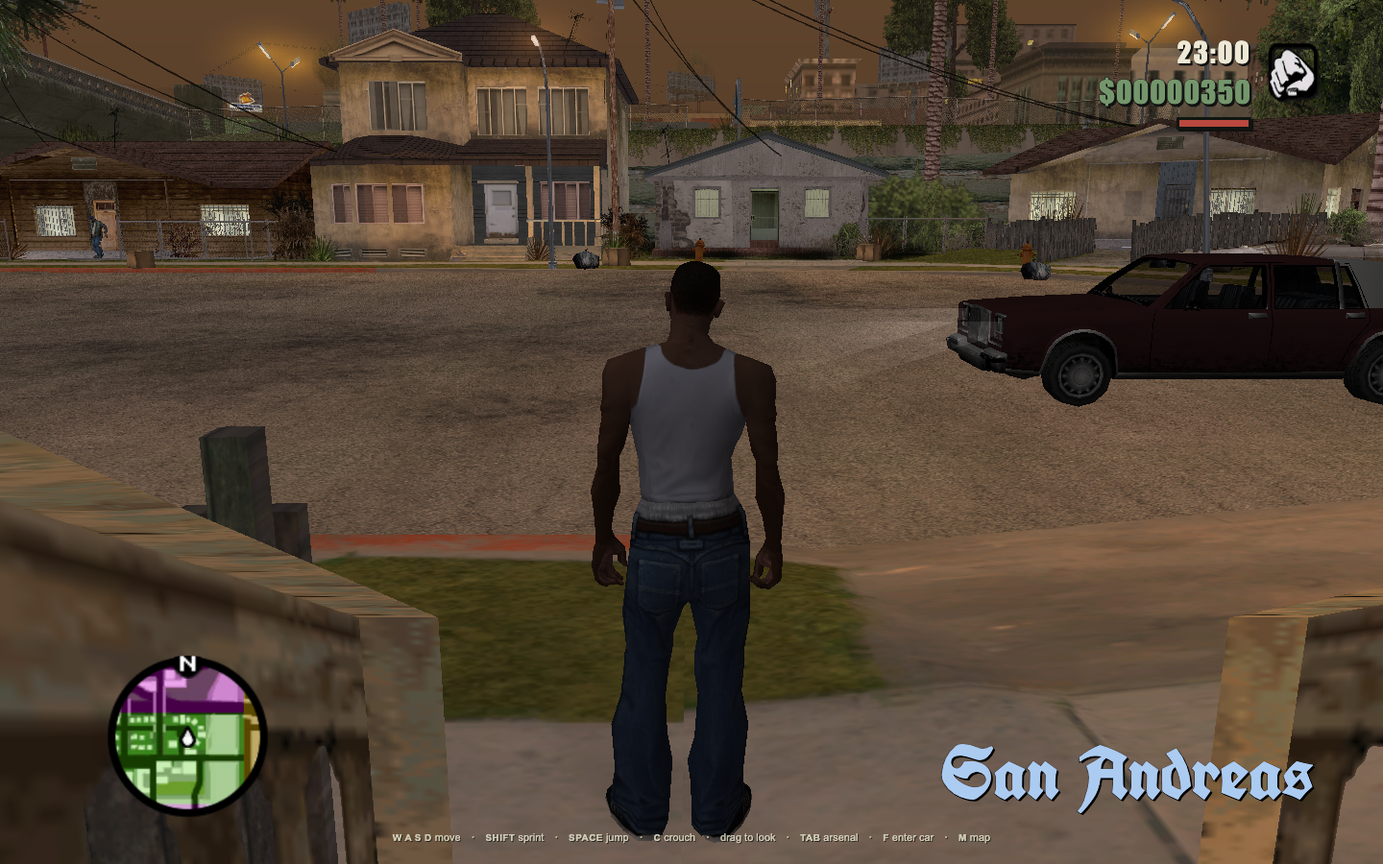
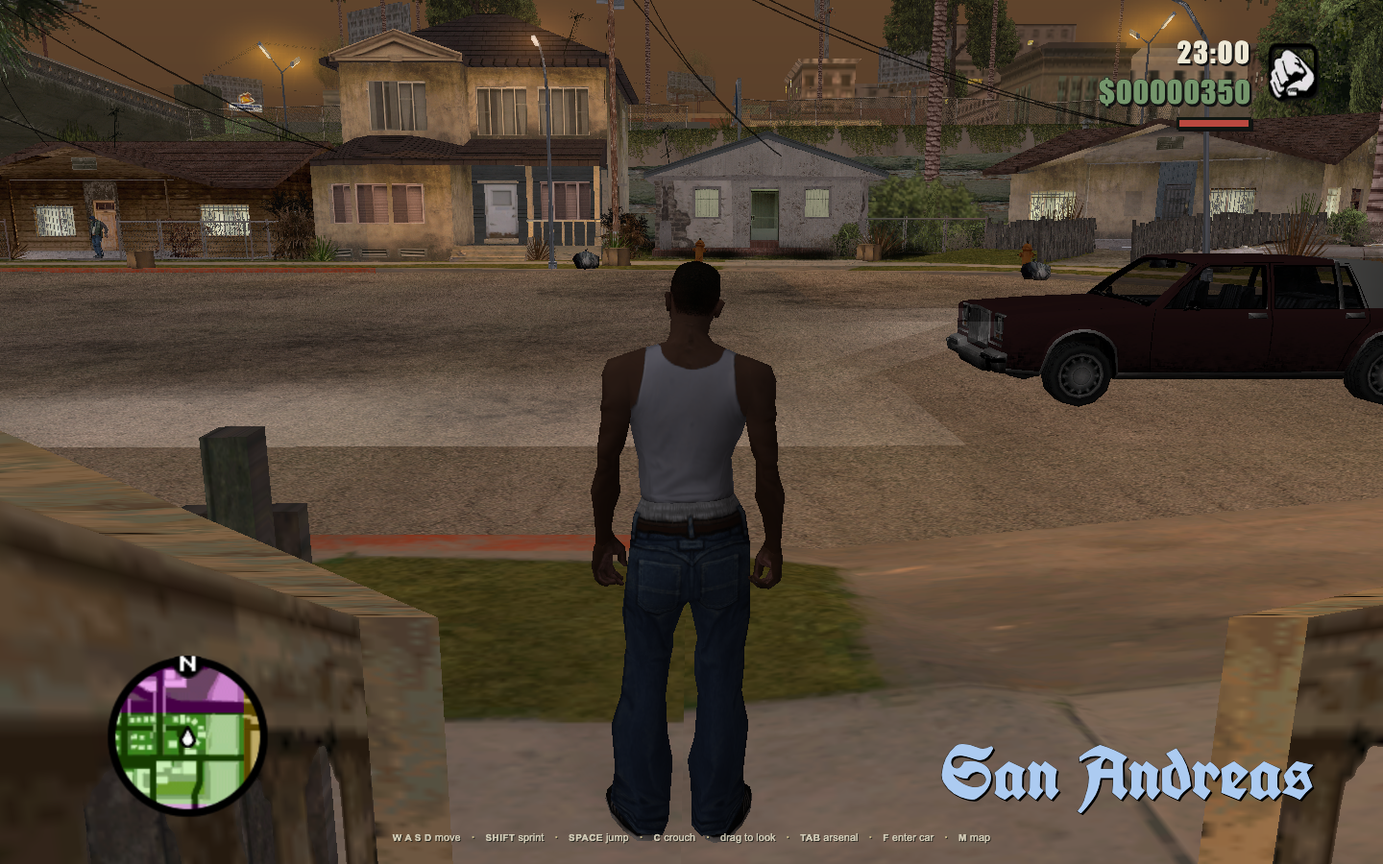
Store headlight road pools under lit cars like CVehicle::DoHeadLightReflection
A twin pool textured headlight (lightSize 4 × the dummy's x, centred
lightSize × 2 + 1 + dummy.y ahead, 2 up, front lightSize × 2, side
lightSize) when both lamps work, a headlight1 pool per working lamp
otherwise, colour 45 at intensity 128 over 6 units, dropped 27 units
from the camera and faded from 18 (CShadows::StoreCarLightShadow). The
light-pool projector gains rotated footprints and per-pool cut-offs; the
particle dictionary's headlight rasters load with the sky textures.

Changed region(s): [[0.0, 0.4356, 0.4375, 0.5289], [0.5312, 0.4978, 0.625, 0.5289]]

diff --git a/src/main.ts b/src/main.ts
@@ -19,6 +19,7 @@ import {nativeWeatherRegion,WEATHER_REGION} from './world/weatherRegion';
 import {CRIME,LAW_ENFORCEMENT_MODELS} from './simulation/nativeWanted';
 import {GangWars,GANG_COLOURS,attackBlipSprite} from './simulation/GangWars';
 import {HeadlightBeams} from './render/HeadlightBeams';
+import {carLightPools} from './render/carLightPools';
 import {pedTypeAtLeastDealer,playerKilledADealer} from './simulation/nativePopCycleEvents';
 import {CHEATS,type CheatName} from './simulation/nativeCheats';
 import {VehicleAnimationLibrary} from './assets/vehicleAnimations';
@@ -328,13 +329,23 @@ async function boot() {
         if(render.lighting.area===0)planeTrails.update(gameTimeMs,Math.floor(sim.timeMinutes/60)%24,coronas,cam);
         // CEntity::PreRender: ProcessLightsForEntity, then DisplayActualLight for traffic light models.
         const pools=importedScene.litPlacements().flatMap(entity=>[...processLightsForEntity(entity,frame,coronas),...(entity.name&&TRAFFIC_LIGHT_MODELS.has(entity.name)?displayActualLight(entity,trafficFrame,coronas,brightLights):[])]);
-        if(poolScene!==importedScene){lightPools.clear();poolScene=importedScene;}
+        if(poolScene!==importedScene){lightPools.clear();carLightPoolsTwin.clear();carLightPoolsSingle.clear();poolScene=importedScene;}
         // CEntity::CreateEffects / DestroyEffects: the installed scene's particle effects run while it is loaded.
         if((fxScene!==importedScene||fxVersion!==importedScene.effectsVersion)&&worldFx.ready){
           for(const system of sceneFx)system.kill();sceneFx.length=0;fxScene=importedScene;fxVersion=importedScene.effectsVersion;
           for(const p of importedScene.particlePlacements()){const system=worldFx.entityFx(p.name,p.position,Float64Array.from(p.matrix));if(system)sceneFx.push(system);}
         }
         const scene=importedScene;lightPools.frame(pools,cam,footprint=>scene.shadowReceivers(footprint),render.lighting.sunTexture.poolTexture);
+        // CVehicle::DoHeadLightReflection: the road pools under lit headlights, on the lamps' night rule.
+        const twinPools:import('./world/nativeEntityLights').LightPool[]=[],singlePools:import('./world/nativeEntityLights').LightPool[]=[];
+        if(nativeDayNightBalance(sim.timeMinutes)>.5)for(const car of fleet?.cars??[]){
+          if(car.wrecked||!car.car.body.isEnabled())continue;const d=car.car.nativeFramePosition('headlights');if(!d)continue;
+          const p=car.car.body.translation(),r=car.car.body.rotation(),q=new Quaternion(r.x,r.y,r.z,r.w),f=new Vector3(0,0,-1).applyQuaternion(q),rt=new Vector3(1,0,0).applyQuaternion(q);
+          const got=carLightPools({id:car.car.body.handle,position:{x:p.x,y:-p.z,z:p.y},forward:{x:f.x,y:-f.z},right:{x:rt.x,y:-rt.z},dummy:{x:d.x,y:d.y,z:d.z},lamps:[!car.damageState.lights[0],!car.damageState.lights[1]]},{x:cam[0],y:cam[1]});
+          twinPools.push(...got.twin);singlePools.push(...got.single);
+        }
+        carLightPoolsTwin.frame(twinPools,cam,footprint=>scene.shadowReceivers(footprint),render.lighting.sunTexture.extraTexture('headlight'));
+        carLightPoolsSingle.frame(singlePools,cam,footprint=>scene.shadowReceivers(footprint),render.lighting.sunTexture.extraTexture('headlight1'));
       }
       worldCoronas.frame(camera,coronas,render.lighting.sunTexture.texture,weatherStarted?weather.foggyness:0);
       // RenderScene's CCoronas::RenderReflections on wet roads.
@@ -639,7 +650,7 @@ async function boot() {
   weapons.onBulletLine=(a,b)=>{lastBulletLine=[{...a},{...b}];birds.handleGunShot([a.x,-a.z,a.y],[b.x,-b.z,b.y]);};
   /** CBulletTraces, and the whizz of a bullet passing near the camera (PlayFrontEndSoundForTrace). */
   const bulletTraces=new NativeBulletTraces(()=>{const m=render.camera.matrixWorld.elements;return {position:{x:m[12],y:m[13],z:m[14]},right:{x:m[0],y:m[1],z:m[2]},up:{x:m[4],y:m[5],z:m[6]},forward:{x:-m[8],y:-m[9],z:-m[10]}};},
-    (event,volume)=>sound.frontend(event,volume)),bulletTracesMesh=new NativeImmediateTriangles(render.scene,16*12,'Native bullet traces',6.3,false),headlightBeams=new HeadlightBeams(render.scene);
+    (event,volume)=>sound.frontend(event,volume)),bulletTracesMesh=new NativeImmediateTriangles(render.scene,16*12,'Native bullet traces',6.3,false),headlightBeams=new HeadlightBeams(render.scene),carLightPoolsTwin=new NativeLightPools(render.scene),carLightPoolsSingle=new NativeLightPools(render.scene);
   /** CMotionBlurStreaks behind thrown grenades and molotovs; fogged with the sky's bottom colour. */
   const streaks=new NativeMotionBlurStreaks(),streaksMesh=new NativeImmediateTriangles(render.scene,4*12,'Native motion blur streaks',6.25,true);
   /** CSetPieces from the INITIAL mission; each request is generated here and reported back. */
@@ -1067,7 +1078,7 @@ async function boot() {
     },
     gangWars:()=>gangWars,
     police:()=>police,
-    state: () => ({ gangWars:gangWars?.snapshot()??null, headlightBeams:headlightBeams.drawn, jetPack:sim.jetPack?{worn:jetPackView.worn,error:jetPackView.error??null,flames:jetFlames.filter(f=>f&&!f.destroyed).length,thrustFwd:sim.jetPack.thrustFwd,strafe:+sim.jetPack.thrustStrafe.toFixed(3),angle:+sim.jetPack.thrustAngle.toFixed(3),fx:+sim.jetPack.fxKeyTime.toFixed(2),legs:[+sim.jetPack.legSwingFwd.toFixed(3),+sim.jetPack.legSwingSide.toFixed(3)]}:null, coronaFlares:{drawn:coronaFlaresMesh.drawn,sun:flareSun}, coronaReflections:{drawn:coronaReflections.drawn,candidates:coronaReflectionCandidates}, setPieces:setPieces?{count:setPieces.pieces.length,generated:setPieces.lastGeneration.filter(t=>t>0).length,attempts:setPieceAttempts,error:setPieceError}:null, tags:tagManager?{total:tagManager.numTags,tagged:tagManager.numTagged,sprayed:tagManager.saved().length}:null, planeTrails:trailsMesh.drawn, bulletTraces:bulletTracesMesh.drawn/12, streaks:streaksMesh.drawn/6, money:sim.money, cheats:{times:cheats.timesCheated,active:[...cheats.active],timeScale:cheatTimeScale}, brightLights:{vertices:brightMesh.drawn,center:brightMesh.firstCenter}, sunReflection:sunReflectionMesh.visible, markers3d:{drawn:markersMesh.drawn,active:markers3d.numActiveMarkers,error:markersMesh.error??null,center:markersMesh.firstCenter,first:(m=>m?{position:[...m.position],size:m.size}:null)(markers3d.markers.find(m=>m.hasAtomic))}, coronas:{sceneFx:sceneFx.length,pools:lightPools.drawn,firstPool:lightPools.first,count:coronas.count,drawn:worldCoronas.drawn,lit:importedScene?.litPlacements().length??0,first:worldCoronas.firstCenter}, lastBulletLine:lastBulletLine??null, birds:{count:birds.count,drawn:birdsMesh.drawnBirds,shot:birds.shot??null,positions:birds.birds.filter(b=>b.created).map(b=>[...b.position])}, duck:{x:duck.x,y:duck.y,rolling:duck.rolling}, entryExits:entryExits?{state:entryExits.state,active:entryExits.active?.enex.name??null,loading:!!interiorTransfer,stack:entryExits.stack.map(e=>e.name),count:entryExits.pool.length}:null, skidmarks:skids.snapshot(), weather:{...weather.snapshot(),effects:weatherEffects.snapshot(),movingFog:movingFog.snapshot()},fx:worldFx.snapshot(),police:police?.snapshot()??null,driveby:driveby?.snapshot()??null,pickups:pickups.snapshot(),drops:drops.snapshot(),carEntry:carEntry.snapshot(),progression:progression.snapshot(),stuntJumps:stuntJumps?.snapshot()??null,occupants:occupants.snapshot(),wanted:law.snapshot(),weapons:{...weapons.snapshot(),error:weaponView.error??null,arsenal:arsenal.open}, traffic:traffic?.snapshot()??null, pedestrians:pedestrians?.snapshot()??null, aircraft:fleet?.occupiedPlane?.snapshot()??null, fleet:fleet?.snapshot()??null, nativeCar:worldCar&&!worldCar.disposed?{occupied:worldCar.occupied,health:worldCar.health,wrecked:worldCar.wrecked,upsideDown:worldCar.upsideDownCounter,doors:worldCar.doors.map((door,i)=>({angle:door.angle,ratio:door.ratio,status:worldCar!.damageState.doors[i]})),debris:worldCar.debris.count,propsSmashed:worldCar.propsSmashed,propsUprooted:worldCar.propsUprooted,tyres:[...worldCar.damageState.wheels],wheels:worldCar.car.wheelSnapshot(),position:{...worldCar.car.body.translation()},velocity:{...worldCar.car.body.linvel()}}:null, breakObjects:{active:breakManager.activeCount,drawn:breakPieces.count,groups:breakManager.objects.filter(o=>o.active).map(o=>o.groups.map(g=>({z:+g.matrix[11].toFixed(2),frames:g.framesToLive,stopped:g.stoppedMoving})))},proceduralCollisionSources:[...(importedScene?.sources.values()??[])].filter(source=>source.procedural).length, nativeVegetation:importedScene?.vegetation()??null, following:follower?{...follower.snapshot(),supportOverrides,lastSupportMiss:lastSupportMiss??null,lastSwap:lastSwap??null,holds:{...terrainHolds},latencyEma:Math.round(latencyEma),leadSeconds:follower.leadSeconds}:null,objectKinds: [...(importedScene?.sources.values()??[])].map(source=>source.entityKind), imported: sim.imported, importedInstances: importedScene?.instanceCount ?? 0, importedReusedColliders:importedScene?.reusedColliderCount??0,importedReusedPlacements:importedScene?.reusedPlacementCount??0, physics:{colliders:sim.world.colliders.len(),bodies:sim.world.bodies.len()},pooledModels:importedScene?.pooledModelCount??0, retiredModels:importedScene?.retiredModelCount??0, retiredModelMB:+(importedScene?.retiredModelMB??0).toFixed(1), frameProfile:{...frameProfile,renderSections:{...render.profile}}, uvAnimators:importedScene?.uvAnimatorCount??0, modelBuild:{...modelBuildStats}, subsystemFaults:[...subsystemFaults].map(([message,count])=>({message,count})), visibleImportedInstances: importedScene?.visibleInstanceCount ?? 0, visibleImportedModels: importedScene?.visibleModels() ?? [], paused, terrainHold:terrainPause, nativeShadow: render.nativeShadow.snapshot(), nativeContactLighting: render.contactLighting ?? null, nativeCharacter: render.nativeCharacter?.snapshot() ?? null, deathRemaining: sim.deathRemaining, knockdown: sim.knockdown, playerCarHits:{...playerCarHits,push:{...sim.collisionPush},stuck:sim.playerStuck}, gameLogicState: gameLogic.state, fadeAlpha: cameraFade.value, restartPoints: {hospitals:nativeRestart.hospitals.length,police:nativeRestart.police.length}, player: { ...sim.player, position: { ...sim.player.position } },moneyDrops:moneyDrops.snapshot(),climb:sim.climb?{clip:sim.climb.anim?.clip??null,time:sim.climb.anim?.time??0,blend:sim.climb.anim?.blend??0,heightForAnim:sim.climb.heightForAnim,heightForPos:sim.climb.heightForPos,hold:{...sim.climb.hold}}:null,climbReady:!!sim.climbDurations,
+    state: () => ({ gangWars:gangWars?.snapshot()??null, headlightBeams:headlightBeams.drawn,carLightPools:carLightPoolsTwin.drawn+carLightPoolsSingle.drawn, jetPack:sim.jetPack?{worn:jetPackView.worn,error:jetPackView.error??null,flames:jetFlames.filter(f=>f&&!f.destroyed).length,thrustFwd:sim.jetPack.thrustFwd,strafe:+sim.jetPack.thrustStrafe.toFixed(3),angle:+sim.jetPack.thrustAngle.toFixed(3),fx:+sim.jetPack.fxKeyTime.toFixed(2),legs:[+sim.jetPack.legSwingFwd.toFixed(3),+sim.jetPack.legSwingSide.toFixed(3)]}:null, coronaFlares:{drawn:coronaFlaresMesh.drawn,sun:flareSun}, coronaReflections:{drawn:coronaReflections.drawn,candidates:coronaReflectionCandidates}, setPieces:setPieces?{count:setPieces.pieces.length,generated:setPieces.lastGeneration.filter(t=>t>0).length,attempts:setPieceAttempts,error:setPieceError}:null, tags:tagManager?{total:tagManager.numTags,tagged:tagManager.numTagged,sprayed:tagManager.saved().length}:null, planeTrails:trailsMesh.drawn, bulletTraces:bulletTracesMesh.drawn/12, streaks:streaksMesh.drawn/6, money:sim.money, cheats:{times:cheats.timesCheated,active:[...cheats.active],timeScale:cheatTimeScale}, brightLights:{vertices:brightMesh.drawn,center:brightMesh.firstCenter}, sunReflection:sunReflectionMesh.visible, markers3d:{drawn:markersMesh.drawn,active:markers3d.numActiveMarkers,error:markersMesh.error??null,center:markersMesh.firstCenter,first:(m=>m?{position:[...m.position],size:m.size}:null)(markers3d.markers.find(m=>m.hasAtomic))}, coronas:{sceneFx:sceneFx.length,pools:lightPools.drawn,firstPool:lightPools.first,count:coronas.count,drawn:worldCoronas.drawn,lit:importedScene?.litPlacements().length??0,first:worldCoronas.firstCenter}, lastBulletLine:lastBulletLine??null, birds:{count:birds.count,drawn:birdsMesh.drawnBirds,shot:birds.shot??null,positions:birds.birds.filter(b=>b.created).map(b=>[...b.position])}, duck:{x:duck.x,y:duck.y,rolling:duck.rolling}, entryExits:entryExits?{state:entryExits.state,active:entryExits.active?.enex.name??null,loading:!!interiorTransfer,stack:entryExits.stack.map(e=>e.name),count:entryExits.pool.length}:null, skidmarks:skids.snapshot(), weather:{...weather.snapshot(),effects:weatherEffects.snapshot(),movingFog:movingFog.snapshot()},fx:worldFx.snapshot(),police:police?.snapshot()??null,driveby:driveby?.snapshot()??null,pickups:pickups.snapshot(),drops:drops.snapshot(),carEntry:carEntry.snapshot(),progression:progression.snapshot(),stuntJumps:stuntJumps?.snapshot()??null,occupants:occupants.snapshot(),wanted:law.snapshot(),weapons:{...weapons.snapshot(),error:weaponView.error??null,arsenal:arsenal.open}, traffic:traffic?.snapshot()??null, pedestrians:pedestrians?.snapshot()??null, aircraft:fleet?.occupiedPlane?.snapshot()??null, fleet:fleet?.snapshot()??null, nativeCar:worldCar&&!worldCar.disposed?{occupied:worldCar.occupied,health:worldCar.health,wrecked:worldCar.wrecked,upsideDown:worldCar.upsideDownCounter,doors:worldCar.doors.map((door,i)=>({angle:door.angle,ratio:door.ratio,status:worldCar!.damageState.doors[i]})),debris:worldCar.debris.count,propsSmashed:worldCar.propsSmashed,propsUprooted:worldCar.propsUprooted,tyres:[...worldCar.damageState.wheels],wheels:worldCar.car.wheelSnapshot(),position:{...worldCar.car.body.translation()},velocity:{...worldCar.car.body.linvel()}}:null, breakObjects:{active:breakManager.activeCount,drawn:breakPieces.count,groups:breakManager.objects.filter(o=>o.active).map(o=>o.groups.map(g=>({z:+g.matrix[11].toFixed(2),frames:g.framesToLive,stopped:g.stoppedMoving})))},proceduralCollisionSources:[...(importedScene?.sources.values()??[])].filter(source=>source.procedural).length, nativeVegetation:importedScene?.vegetation()??null, following:follower?{...follower.snapshot(),supportOverrides,lastSupportMiss:lastSupportMiss??null,lastSwap:lastSwap??null,holds:{...terrainHolds},latencyEma:Math.round(latencyEma),leadSeconds:follower.leadSeconds}:null,objectKinds: [...(importedScene?.sources.values()??[])].map(source=>source.entityKind), imported: sim.imported, importedInstances: importedScene?.instanceCount ?? 0, importedReusedColliders:importedScene?.reusedColliderCount??0,importedReusedPlacements:importedScene?.reusedPlacementCount??0, physics:{colliders:sim.world.colliders.len(),bodies:sim.world.bodies.len()},pooledModels:importedScene?.pooledModelCount??0, retiredModels:importedScene?.retiredModelCount??0, retiredModelMB:+(importedScene?.retiredModelMB??0).toFixed(1), frameProfile:{...frameProfile,renderSections:{...render.profile}}, uvAnimators:importedScene?.uvAnimatorCount??0, modelBuild:{...modelBuildStats}, subsystemFaults:[...subsystemFaults].map(([message,count])=>({message,count})), visibleImportedInstances: importedScene?.visibleInstanceCount ?? 0, visibleImportedModels: importedScene?.visibleModels() ?? [], paused, terrainHold:terrainPause, nativeShadow: render.nativeShadow.snapshot(), nativeContactLighting: render.contactLighting ?? null, nativeCharacter: render.nativeCharacter?.snapshot() ?? null, deathRemaining: sim.deathRemaining, knockdown: sim.knockdown, playerCarHits:{...playerCarHits,push:{...sim.collisionPush},stuck:sim.playerStuck}, gameLogicState: gameLogic.state, fadeAlpha: cameraFade.value, restartPoints: {hospitals:nativeRestart.hospitals.length,police:nativeRestart.police.length}, player: { ...sim.player, position: { ...sim.player.position } },moneyDrops:moneyDrops.snapshot(),climb:sim.climb?{clip:sim.climb.anim?.clip??null,time:sim.climb.anim?.time??0,blend:sim.climb.anim?.blend??0,heightForAnim:sim.climb.heightForAnim,heightForPos:sim.climb.heightForPos,hold:{...sim.climb.hold}}:null,climbReady:!!sim.climbDurations,
       camera: { mode: render.distanceMode, distance: render.followDistance, far: render.camera.far, fog: render.scene.fog?.toJSON(), yaw: render.yaw, viewYaw: render.viewYaw, pitch: render.viewPitch, glance: render.glance, position: render.camera.position.toArray(), firstPerson: render.firstPerson??null, fov: render.fov, verticalFov: render.camera.fov, near: render.camera.near },
       movementSurfaceDefinitions:surfaceSprint?.size??0,surfaceSprintBlocked,
       audio: {...sound.state(),surfaceDefinitions:surfaceAudio?.byId.size??0}, timeMinutes: sim.timeMinutes, lighting: { area: render.lighting.area, sunMultiplier: render.lighting.sunLightMultiplier, night: render.lighting.night, imported: localLighting.name, weather: localLighting.weather, regionalModifiers:localLighting.modifierCount, native: localLighting.sample(sim.timeMinutes,render.camera.position) },

diff --git a/src/render/carLightPools.ts b/src/render/carLightPools.ts
@@ -1,0 +1,36 @@
+import type {LightPool} from '../world/nativeEntityLights';
+/* CVehicle::DoHeadLightReflection (gta-reversed ead3051): the additive road pool under a car's lit headlights.
+ * DoHeadLightReflectionTwin, when both lamps work, stores one pool textured `headlight`: lightSize = 4 × the
+ * headlights dummy's x, centred lightSize × 2 + 1 + dummy.y ahead of the car, 2 units up, front half-vector
+ * forward × lightSize × 2 and side half-vector perp-right of forward × lightSize. DoHeadLightReflectionSingle stores
+ * `headlight1` per working lamp, offset ± dummy.x along the right (bikes and the Quad use lightSize 1.25). Colour
+ * 45, 45, 45 at intensity 128 over 6 units of height. CShadows::StoreCarLightShadow drops pools 27 units from the
+ * camera and fades the colour from 18 (27 × 2 / 3) out. Native coordinates (x, y, z up). */
+export const CAR_LIGHT_POOL_MAX_DISTANCE=27,CAR_LIGHT_POOL_COLOUR=45;
+export interface CarLightSource {
+ id:number;position:{x:number;y:number;z:number};forward:{x:number;y:number};right:{x:number;y:number};
+ /** The headlights dummy in native car space. */
+ dummy:{x:number;y:number;z:number};
+ lamps:readonly [boolean,boolean];bike?:boolean;
+}
+export function carLightPools(car:CarLightSource,camera:{x:number;y:number}):{twin:LightPool[];single:LightPool[]}{
+ const twin:LightPool[]=[],single:LightPool[]=[];
+ const [left,right]=car.lamps;if(!left&&!right)return {twin,single};
+ const fl=Math.hypot(car.forward.x,car.forward.y)||1,fwd={x:car.forward.x/fl,y:car.forward.y/fl};
+ const rl=Math.hypot(car.right.x,car.right.y)||1,rgt={x:car.right.x/rl,y:car.right.y/rl};
+ const fade=(p:{x:number;y:number})=>{const d=Math.hypot(p.x-camera.x,p.y-camera.y);if(d>=CAR_LIGHT_POOL_MAX_DISTANCE)return 0;const start=CAR_LIGHT_POOL_MAX_DISTANCE*2/3;return d>=CAR_LIGHT_POOL_MAX_DISTANCE*.75?1-(d-start)/(CAR_LIGHT_POOL_MAX_DISTANCE-start):1;};
+ const store=(list:LightPool[],id:number,centre:{x:number;y:number},lightSize:number)=>{
+  const t=fade(centre);if(t<=0)return;
+  const c=Math.trunc(CAR_LIGHT_POOL_COLOUR*t);
+  const front:[number,number]=[fwd.x*lightSize*2,fwd.y*lightSize*2],side:[number,number]=[fwd.y*lightSize,-fwd.x*lightSize];
+  list.push({id,position:[centre.x,centre.y,car.position.z+2],size:lightSize*2,color:[c,c,c],intensity:128,maxHeight:6,front,side,maxDistance:CAR_LIGHT_POOL_MAX_DISTANCE});
+ };
+ if(left&&right){
+  const lightSize=Math.abs(car.dummy.x)*4,offset=lightSize*2+1+car.dummy.y;
+  store(twin,car.id*4+2,{x:car.position.x+fwd.x*offset,y:car.position.y+fwd.y*offset},lightSize);
+ }else{
+  const x=right?Math.abs(car.dummy.x):-Math.abs(car.dummy.x),lightSize=car.bike?1.25:Math.abs(car.dummy.x)*4,offset=lightSize*2+1+car.dummy.y;
+  store(single,car.id*4+(right?1:0),{x:car.position.x+rgt.x*x+fwd.x*offset,y:car.position.y+rgt.y*x+fwd.y*offset},lightSize);
+ }
+ return {twin,single};
+}

diff --git a/tests/car-light-pools.test.ts b/tests/car-light-pools.test.ts
@@ -1,0 +1,20 @@
+import {expect,test} from 'vitest';
+import {carLightPools,CAR_LIGHT_POOL_MAX_DISTANCE} from '../src/render/carLightPools';
+const car=(lamps:[boolean,boolean])=>({id:7,position:{x:100,y:200,z:10},forward:{x:0,y:1},right:{x:1,y:0},dummy:{x:0.6,y:2,z:0.5},lamps});
+test('both lamps lit store one twin pool ahead of the car; one lamp a single pool offset to its side; none when the lamps are out',()=>{
+ const twin=carLightPools(car([true,true]),{x:100,y:200});
+ expect(twin.single).toHaveLength(0);expect(twin.twin).toHaveLength(1);
+ const t=twin.twin[0],lightSize=2.4,offset=lightSize*2+1+2;
+ expect(t.position).toEqual([100,200+offset,12]);expect(t.front).toEqual([0,lightSize*2]);expect(t.side).toEqual([lightSize,-0]);
+ expect(t.color).toEqual([45,45,45]);expect(t.intensity).toBe(128);expect(t.maxHeight).toBe(6);expect(t.maxDistance).toBe(27);
+ const right=carLightPools(car([false,true]),{x:100,y:200});
+ expect(right.twin).toHaveLength(0);expect(right.single).toHaveLength(1);expect(right.single[0].position[0]).toBeCloseTo(100.6,5);
+ const left=carLightPools(car([true,false]),{x:100,y:200});expect(left.single[0].position[0]).toBeCloseTo(99.4,5);
+ expect(carLightPools(car([false,false]),{x:100,y:200}).twin).toHaveLength(0);
+});
+test('the pool fades from 18 units and drops at 27 from the camera; a bike uses lightSize 1.25',()=>{
+ const c=car([true,true]);
+ const near=carLightPools(c,{x:100,y:200+7.8}),mid=carLightPools(c,{x:100,y:200+7.8-22.5}),far=carLightPools(c,{x:100,y:200+7.8-CAR_LIGHT_POOL_MAX_DISTANCE});
+ expect(near.twin[0].color[0]).toBe(45);expect(mid.twin[0].color[0]).toBe(Math.trunc(45*(1-(22.5-18)/9)));expect(far.twin).toHaveLength(0);
+ const bike=carLightPools({...car([false,true]),bike:true},{x:100,y:200});expect(bike.single[0].front).toEqual([0,2.5]);
+});

diff --git a/src/render/NativeLightPools.ts b/src/render/NativeLightPools.ts
@@ -43,14 +43,15 @@ export class NativeLightPools {
  frame(pools:readonly LightPool[],camera:readonly [number,number,number],receivers:Receivers|undefined,raster:THREE.Texture|undefined){
   const shown:{geometry:{positions:Float32Array;uvs:Float32Array};color:[number,number,number];position:[number,number,number]}[]=[];
   if(raster&&receivers)for(const pool of pools){
-   if(!pool.intensity||Math.hypot(pool.position[0]-camera[0],pool.position[1]-camera[1])>=40)continue;
+   if(!pool.intensity||Math.hypot(pool.position[0]-camera[0],pool.position[1]-camera[1])>=(pool.maxDistance??40))continue;
    const key=`${pool.id}:${pool.position.map(v=>v.toFixed(2)).join(',')}`;
    let geometry=this.cache.get(key);
    if(!geometry){
     const merged={positions:[] as number[],uvs:[] as number[]};
     try{
      // Native (x, y, z) is the renderer's (x, z, -y); the footprint reaches `maxHeight` below the light.
-     for(const {geometry:g} of receivers({center:{x:pool.position[0],y:pool.position[2],z:-pool.position[1]},side:{x:pool.size,z:0},front:{x:0,z:pool.size},depth:pool.maxHeight}).chunks){
+     const side=pool.side?{x:pool.side[0],z:-pool.side[1]}:{x:pool.size,z:0},front=pool.front?{x:pool.front[0],z:-pool.front[1]}:{x:0,z:pool.size};
+     for(const {geometry:g} of receivers({center:{x:pool.position[0],y:pool.position[2],z:-pool.position[1]},side,front,depth:pool.maxHeight}).chunks){
       for(let i=0;i<g.positions.length;i+=3)merged.positions.push(g.positions[i],g.positions[i+1]+.06,g.positions[i+2]);
       merged.uvs.push(...g.uvs);
      }

diff --git a/src/assets/sunTexture.ts b/src/assets/sunTexture.ts
@@ -9,9 +9,10 @@ export function decodeSunTexture(dictionary:Uint8Array,cache?:TextureDecodeCache
   return textures[0];
 }
 
-/** Other CCoronas rasters from the particle dictionary: the sun's sea reflection (`coronaheadlightline`) and the
- * wet-road reflections (`coronareflect`). */
-export const EXTRA_SKY_TEXTURES=['coronaheadlightline','coronareflect'] as const;
+/** Other CCoronas rasters from the particle dictionary: the sun's sea reflection (`coronaheadlightline`), the
+ * wet-road reflections (`coronareflect`) and CShadows' headlight road pools (`headlight` for a twin beam, `headlight1`
+ * for a single lamp). */
+export const EXTRA_SKY_TEXTURES=['coronaheadlightline','coronareflect','headlight','headlight1'] as const;
 /** Optional low clouds, water, CClouds::Init's moving fog mask (`cloudmasked`), the light-pool shadow (`shad_exp`) and
  * the extra corona rasters share the particle dictionary; sun-only dictionaries remain valid. */
 export function decodeSkyTextures(dictionary:Uint8Array,cache?:TextureDecodeCache) {

diff --git a/src/world/nativeEntityLights.ts b/src/world/nativeEntityLights.ts
@@ -31,7 +31,9 @@ export interface LitEntity {
  effects:readonly Model2dEffect[];
 }
 /** A light pool CShadows::StoreStaticShadow keeps under a lit effect (SHADOW_ADDITIVE). */
-export interface LightPool {id:number;position:[number,number,number];size:number;color:[number,number,number];intensity:number;maxHeight:number}
+export interface LightPool {id:number;position:[number,number,number];size:number;color:[number,number,number];intensity:number;maxHeight:number;
+ /** A rotated footprint (native 2D front and side half-vectors) instead of the `size` square, and its own camera cut-off. */
+ front?:[number,number];side?:[number,number];maxDistance?:number}
 
 const transform=(m:readonly number[],p:readonly number[]):[number,number,number]=>[m[0]*p[0]+m[4]*p[1]+m[8]*p[2]+m[12],m[1]*p[0]+m[5]*p[1]+m[9]*p[2]+m[13],m[2]*p[0]+m[6]*p[1]+m[10]*p[2]+m[14]];
 

diff --git a/tests/browser/headlight-beams.spec.ts b/tests/browser/headlight-beams.spec.ts
@@ -14,6 +14,8 @@ test('lit headlights draw their beam fans at night and none by day',async({page}
  await expect.poll(async()=>(await state()).headlightBeams,{timeout:10000}).toBeGreaterThan(0);
  // Two lamps, four triangles each: 24 vertices for the Greenwood alone (traffic may add more).
  expect((await state()).headlightBeams%24).toBe(0);
+ // CVehicle::DoHeadLightReflection: the twin road pool under the Greenwood's lamps.
+ await expect.poll(async()=>(await state()).carLightPools,{timeout:10000}).toBeGreaterThan(0);
  await page.screenshot({path:'scratch/beams/night-side.png'});
  expect(errors).toEqual([]);
 });

diff --git a/docs/GAPS_CHECKLIST.md b/docs/GAPS_CHECKLIST.md
@@ -13,7 +13,7 @@ This records implemented browser behavior and the work still needed. Native geom
 | Progression | Local cash/loadout/ammo/practice save; walking, driving and pursuit escape activities with one-time rewards; dead armed peds drop their gun for its leftover rounds (one-shot pickups, eight live max); the 522 exterior new-game SCM pickups (MAIN init, INITIAL, INITIL2) streamed within 100 units with CPickup::Update collection, ON_STREET/ON_STREET_SLOW regeneration, weapon ammo (AmmoForWeapon_OnStreet), body armour, bribes, horseshoes/oysters/snapshots with native rewards, saved collection state; the 70 unique stunt jumps from the script with slow motion, the fixed camera and rewards (see docs/research/NATIVE_STUNT_JUMPS.md); the Verdant Meadows save disc with its native save effects, respawn and location persistence (see docs/research/NATIVE_SAVE_POINTS.md); property purchase and asset revenue (6 exterior for-sale properties with script prices, nearest-link revenue accrual capped by script limits, ownership saved; interiors unusable without streaming) interior pickups streamed by 3D distance, DoPickUpEffects spin + breathing glow, 3-slot interior save menu with location/clock/cash, and a story-mission scaffold with the Grove Street introduction thread| Executable SCM runtime and original campaign, side activities, interiors and complete save/world/script persistence. Authored mission objectives do not establish script compatibility. |
 | Aircraft | Seventeen native models including nine helicopters and Hydra VTOL; rotor animation, landing/gear, mounted military weapons, weapon/impact damage with smoke/fire bands; cBuoyancy water floating over WATER.DAT (Seasparrow/Leviathan float, other aircraft drown); the pilot sits at ped_frontseat with the native ride poses; choreographed entry/exit clips resolved per model through the handling anim groups; mid-flight parachute bailouts below the belly with the fall carrying aircraft velocity (see docs/research/PLAYABLE_AIRCRAFT.md) Authored FlyingControl approximation: handling thrust/drag, stall authority, flap/gear resistance, banked-turn yaw coupling, ground-effect cushion and weather crosswind coupling flight ceiling from `CVehicle::HeightAboveCeiling` (800 m for planes and helicopters, the RC Baron's 500 m band; gta-reversed ead3051) with an authored nose-down push above it (`FlyingControl` is a stub);| Replace authored fixed-wing/hover dynamics with verified original behavior; native gear transitions and complete task integration. FlyingControl is not fully reversed in the pinned reference. |
 | World | Native terrain/detail/collision streaming with the 1,000 m native LOD and big-building ring always streamed (on foot and driving as well as in flight; each placement bounded by its own draw distance); worker request queue (latest-wins coalescing, no busy-fail stop), 8-wide model decode with overlapped vegetation planning, retained decode caches; early prefetch at 30% radius with a late 85% boundary hold that freezes the simulation but keeps the view, pointer lock and held keys (no menu, as the original merely hitches while CStreaming catches up); the worker skips resident models and caches the vegetation package, collision collections and procedural models so a window takes 70 to 430 ms, the prefetch leads by the measured latency and an aircraft above 40 m never holds (70 m/s: one hold at the start instead of 53 in 90 s); a failed window retries with backoff (0.5/2/5 s) and only three failures in a row stop following, the window's player-support check is advisory (0.6 s of retries, then it installs where the player stands), a missing or corrupt model is left out of its window with a notice rather than failing it, RpUVAnim dictionaries ahead of a clump are read and their materials' texture coordinates animate (waterfalls, neon and scrolling signs, the night casino blocks; linear and param interpolators, channel 0), built model sources are pooled across windows so retained models keep their GPU buffers, and each request names the models the main thread holds so the worker leaves their geometry and rasters out of the window message (2 to 4 MB per window instead of 15 to 20 with 85% of parts resident), and the next window's instances and new colliders are pre-built at 4 ms a frame so the synchronous commit runs 6 to 12 ms (a scripted 60 s channel drive through 17 windows in headless Chrome: no swap over 50 ms, no frame gap over 300 ms; `tests/browser/streaming-drive.spec.ts`); a Node grid probe (`GTA_WORLD_COVERAGE=1 npx vitest run tests/static-world-coverage.test.ts`) streams all 225 windows of a 400 m grid over the world, median 0.76 s, slowest 1.6 s; blob shadows only (real shadow maps off for PS2-era fidelity and frame cost), pixel ratio capped at 1, throttled placement visibility (1.5 m / 150 ms); native CWeather cycle (region hourly lists, forced weather from the Lighting menu, old/new timecycle interpolation with LA smog altitude blend, rain/sandstorm/fog/cloud/rainbow factors, lightning timing), rain streaks, rain grain, rainbow lines, rain splashes and sandstorm particles, moving SF fog sprites (CClouds::MovingFogRender), wet-road grip for the player's car and softer sand, weather wind for FX and grass (see docs/research/NATIVE_WEATHER.md); city-noise stereo bed with line-of-sight whooshes (see docs/research/NATIVE_AUDIO.md) Windyness gust synthesis (gust factor + directional swing) feeding FX/grass, long-distance aerial LOD review, retained CStreaming-style prefetch| PC 1.0 renderer/reference captures, original streaming dependencies and persistence, memory/performance verification across sustained traversal. |
-| Effects/equipment | Headlight beam fans in front of lit lamps at night (CVehicle::DoHeadLightBeam; cars by the bike's rule); glass windows crack, shatter into CFallingGlassPane pieces and lose their collision under bullets, vehicle blows and explosions (CGlass); MatFX environment maps on vehicles and building glass (view-space normal sphere map, additive by coefficient); native FX system over effects.fxp/effectsPC.txd (82 systems, 1000-particle pool): explosions by CExplosion type with fuel bursts, CFire fire, car overheat smoke and engine fire, exhaust puffs, heli dust, flamethrower/extinguisher/spray can mists, gun smoke, shells, bullet impacts by surface and blood (see docs/research/NATIVE_FX.md); aircraft water spray (cBuoyancy::AddSplashParticles) with its splash sound; car water spray with the same native edges/particles/sound (CAutomobile::ProcessBuoyancy, non-amphibious cars drown); wading-foot `water_splsh_sml` on an authored stride cadence and one big splash per airborne water entry, for the player and nearby pedestrians (`TriggerFootSplash` not reversed); damaged-aircraft overheat smoke and fire (authored 65%/25% bands through the car systems); glass-flagged bullet impacts throw `prt_glass` shards (shatter audio not reversed); goggles modes with native head attachment after goggles_put_on, native parachute canopy with authored forward glide and capped descent HeatHazeFX shimmer pass for heat-haze prims and full parachute flare physics (S-flare to −1.5 m/s with forward bleed, 2 m/s flared glide)| Original emission timing, siren lights, skidmarks, glass behavior and equipment task/physics parity; matched visual trials. |
+| Effects/equipment | Headlight beam fans and road pools in front of lit lamps at night (CVehicle::DoHeadLightBeam, DoHeadLightReflection through CShadows::StoreCarLightShadow); glass windows crack, shatter into CFallingGlassPane pieces and lose their collision under bullets, vehicle blows and explosions (CGlass); MatFX environment maps on vehicles and building glass (view-space normal sphere map, additive by coefficient); native FX system over effects.fxp/effectsPC.txd (82 systems, 1000-particle pool): explosions by CExplosion type with fuel bursts, CFire fire, car overheat smoke and engine fire, exhaust puffs, heli dust, flamethrower/extinguisher/spray can mists, gun smoke, shells, bullet impacts by surface and blood (see docs/research/NATIVE_FX.md); aircraft water spray (cBuoyancy::AddSplashParticles) with its splash sound; car water spray with the same native edges/particles/sound (CAutomobile::ProcessBuoyancy, non-amphibious cars drown); wading-foot `water_splsh_sml` on an authored stride cadence and one big splash per airborne water entry, for the player and nearby pedestrians (`TriggerFootSplash` not reversed); damaged-aircraft overheat smoke and fire (authored 65%/25% bands through the car systems); glass-flagged bullet impacts throw `prt_glass` shards (shatter audio not reversed); goggles modes with native head attachment after goggles_put_on, native parachute canopy with authored forward glide and capped descent HeatHazeFX shimmer pass for heat-haze prims and full parachute flare physics (S-flare to −1.5 m/s with forward bleed, 2 m/s flared glide)| Original emission timing, siren lights, skidmarks, glass behavior and equipment task/physics parity; matched visual trials. |
 
 ## Historical verification (not a current fidelity acceptance report)
 

diff --git a/docs/FIDELITY_AUDIT.md b/docs/FIDELITY_AUDIT.md
@@ -396,6 +396,19 @@ for its front lamp; CAutomobile::Render is a retail stub, so the browser draws c
 (authored), the second at the headlights dummy mirrored across the car's right axis, skipping broken lamps, on the
 same night rule as the lamps (`src/render/HeadlightBeams.ts`).
 
+## Headlight pools on the road
+
+Lit headlights lit nothing on the road ahead. CVehicle::DoHeadLightReflection (reversed) stores an additive shadow
+under the lamps through CShadows::StoreCarLightShadow: with both lamps working DoHeadLightReflectionTwin stores one
+`headlight` pool of lightSize 4 × the headlights dummy's x, centred lightSize × 2 + 1 + dummy.y ahead, 2 units up, a
+front half-vector of forward × lightSize × 2 and a side half-vector of lightSize; a single working lamp stores a
+`headlight1` pool offset to its side (bikes and the Quad at lightSize 1.25); colour 45, 45, 45 at intensity 128 over 6
+units of height, dropped 27 units from the camera and faded from 18. The browser stores the same pools through its
+light-pool projector (rotated footprints and per-pool cut-offs added; `src/render/carLightPools.ts`,
+`carLightPools` in the dev state), on the lamps' night rule, with the two rasters from the particle dictionary.
+Authored: the night rule itself (CVehicle::DoVehicleLights is a retail stub), the static/dynamic shadow split
+(one projector serves both), and the camera-facing cut (the 7.0 cosine never triggers).
+
 ## Peds turning their heads
 
 Street peds never looked at anything. IKChainManager_c::LookAt puts a CTaskSimpleIKLookAt on the ped: its chain runs
